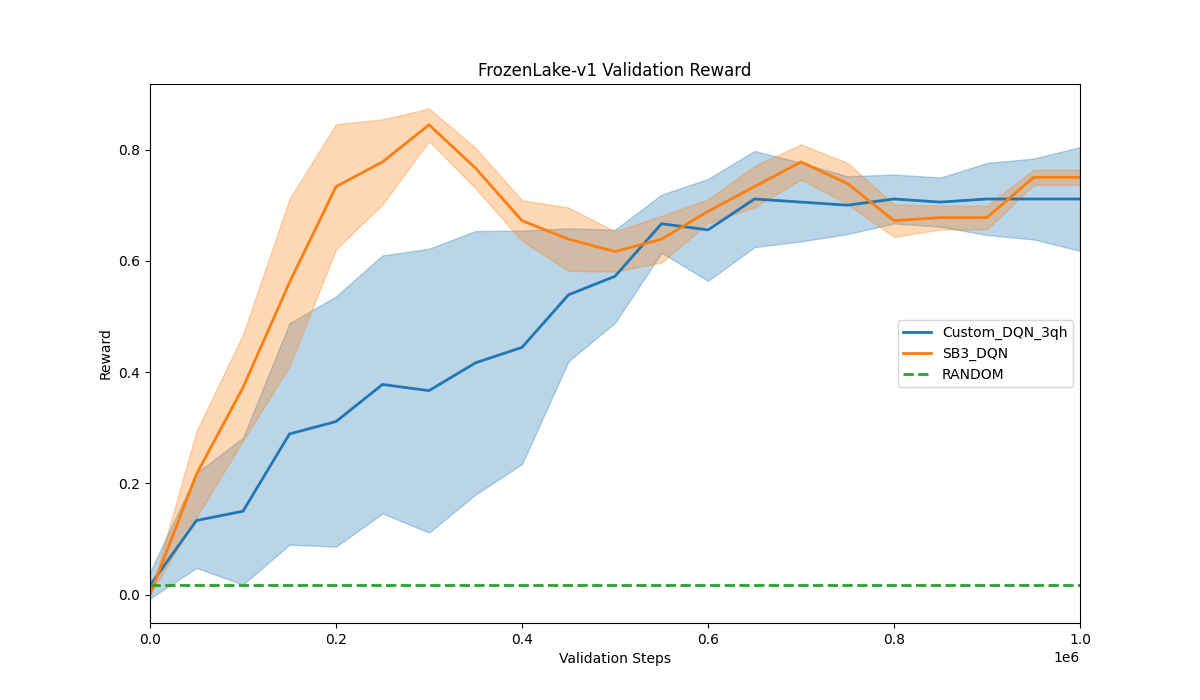
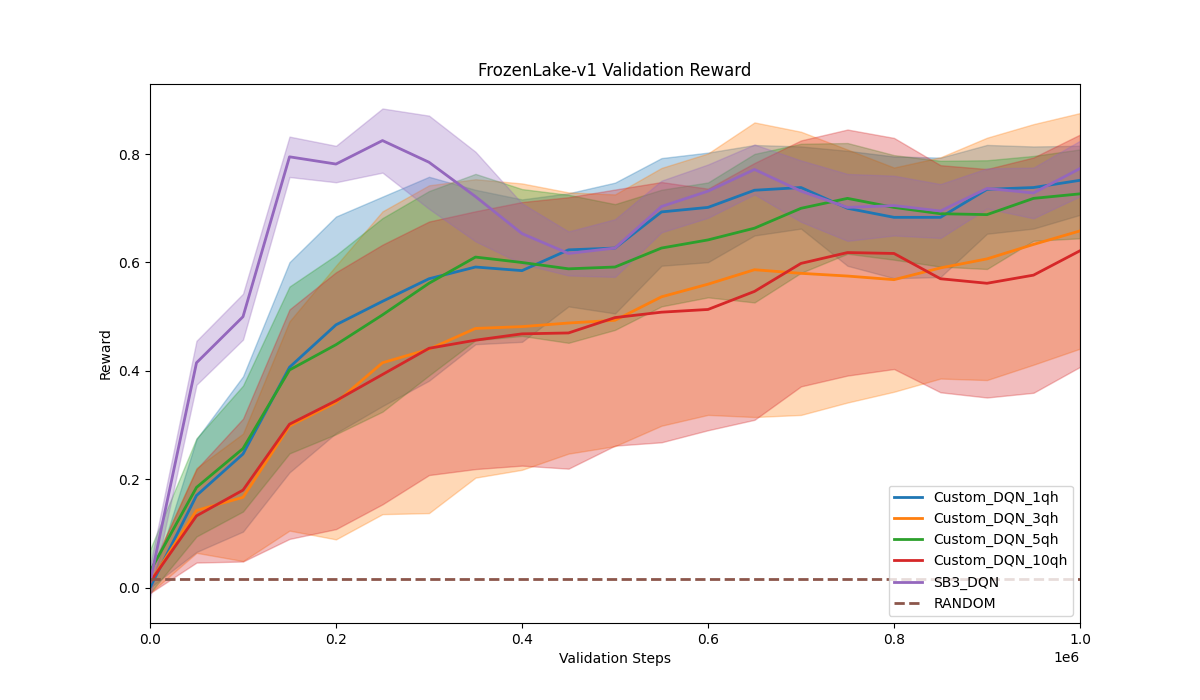
plot frozen lake

diff --git a/src/plot_results.py b/src/plot_results.py
@@ -19,7 +19,7 @@ def plot_results(
     env_name="",
     is_training_result=False,
     interval_x_axis: int | None = 5,
-    color_in_std=True
+    color_in_std=True,
 ):
     if not os.path.exists(save_dir):
         os.makedirs(save_dir)
@@ -91,7 +91,9 @@ def plot_results(
                 continue
 
             if color_in_std:
-                plt.fill_between(x_vals, mean - std, mean + std, alpha=0.3, color=f"C{idx}")
+                plt.fill_between(
+                    x_vals, mean - std, mean + std, alpha=0.3, color=f"C{idx}"
+                )
 
         plt.legend()
 
@@ -173,17 +175,28 @@ def plot_seeds():
 
 
 def main():
-    env_name = "LunarLander-v3"  # just for plot title
+    # env_name = "LunarLander-v3"
+    env_name = "FrozenLake-v1"
+
     base_dir = f"results/{env_name}/1.0M"
-    algos_to_plot = ["Custom_DQN_1qh", "Custom_DQN_3qh", "Custom_DQN_5qh", "SB3_DQN", "SB3_PPO", "RANDOM"]
+    algos_to_plot = [
+        "Custom_DQN_1qh",
+        "Custom_DQN_3qh",
+        "Custom_DQN_5qh",
+        "Custom_DQN_10qh",
+        "SB3_DQN",
+        "RANDOM",
+    ]
     save_dir = f"{base_dir}/_plots"
 
-    plot_training_results = False  # set false to plot eval results
+    plot_training_results = False  # toggle to either to plot eval or train results
+    load_head_results = False  # set True to see head plots
+
     results_to_plot = load_csvs(
         base_dir,
         algos_to_plot=algos_to_plot,
         load_training_csvs=plot_training_results,
-        load_head_results=False,
+        load_head_results=load_head_results,
     )
     # If you need to plot results from outside of base_dir, use results_to_plot["my_result"] =  read_csv(path_to_result)
     plot_results(
@@ -191,7 +204,7 @@ def main():
         save_dir=save_dir,
         is_training_result=plot_training_results,
         env_name=env_name,
-        color_in_std=True
+        color_in_std=True,
     )
 
 
